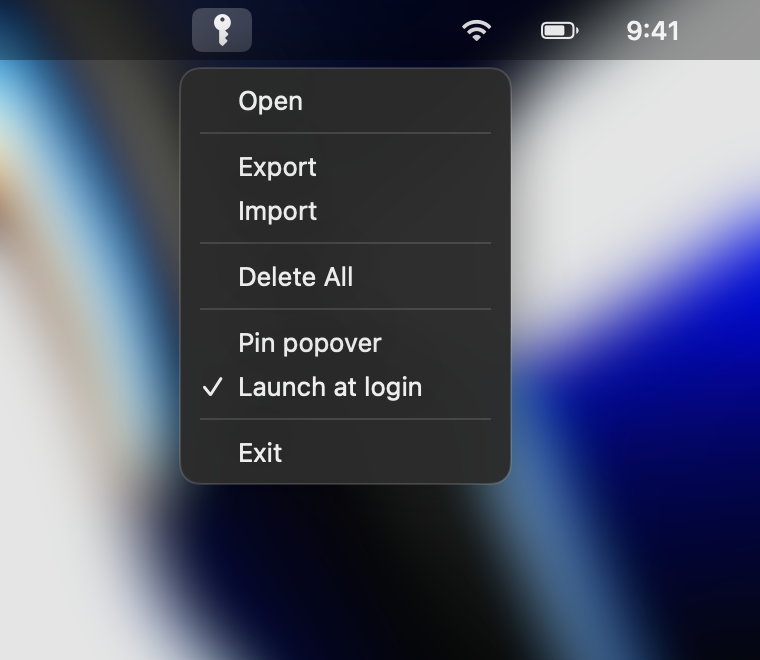
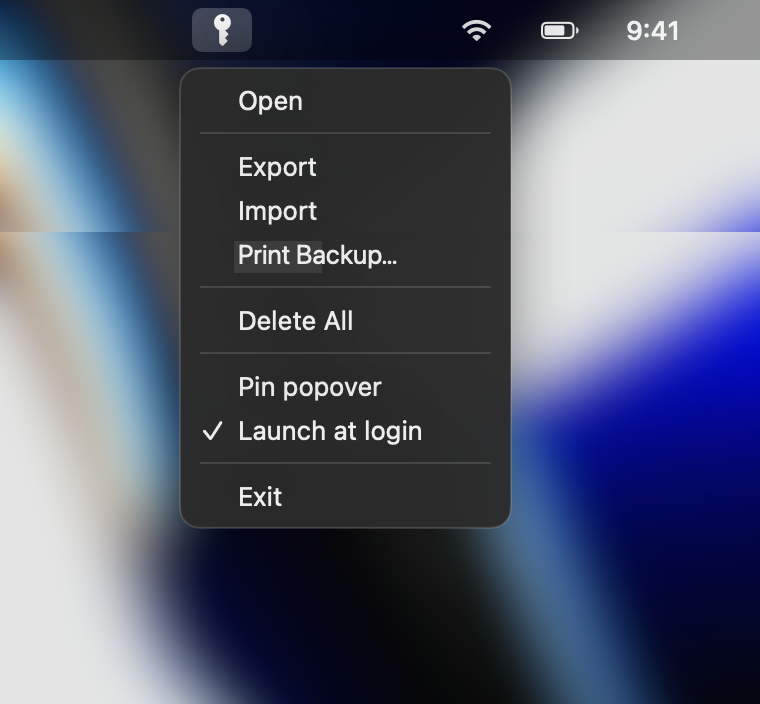
GlassOTP 2.0.2: print entitlement, CSV BOM, paper backup polish, updated screenshots

diff --git a/App/StatusBarController.swift b/App/StatusBarController.swift
@@ -61,7 +61,7 @@ final class StatusBarController: NSObject {
 
         NotificationCenter.default.addObserver(
             self,
-            selector: #selector(exportTokens),
+            selector: #selector(handleBackupRequested),
             name: .backupRequested,
             object: nil
         )
@@ -358,8 +358,8 @@ final class StatusBarController: NSObject {
         menu.addItem(.separator())
 
         menu.addItem(item("Export", #selector(exportTokens)))
-        menu.addItem(item("Print Backup…", #selector(printBackup)))
         menu.addItem(item("Import", #selector(importTokens)))
+        menu.addItem(item("Print Backup…", #selector(printBackup)))
 
         menu.addItem(.separator())
 
@@ -437,6 +437,11 @@ final class StatusBarController: NSObject {
             title: "All tokens deleted",
             body: "\(count) tokens removed"
         )
+    }
+
+    @objc private func handleBackupRequested() {
+        if popover.isShown { closePopover(sender: nil) }
+        exportTokens()
     }
 
     @objc private func exportTokens() {

diff --git a/Services/Importers/PasswordManagerImport.swift b/Services/Importers/PasswordManagerImport.swift
@@ -81,7 +81,9 @@ enum PasswordManagerImport {
     }
 
     private static func column(_ names: [String], in header: [String]) -> Int? {
-        let normalized = header.map { $0.trimmingCharacters(in: .whitespacesAndNewlines).lowercased() }
+        let normalized = header.map {
+            $0.replacingOccurrences(of: "\u{FEFF}", with: "").trimmingCharacters(in: .whitespacesAndNewlines).lowercased()
+        }
         for name in names {
             if let index = normalized.firstIndex(of: name) { return index }
         }

diff --git a/Services/PaperBackup.swift b/Services/PaperBackup.swift
@@ -155,7 +155,7 @@ enum PaperBackup {
     private static func details(_ token: OTPToken) -> String {
         switch token.kind {
         case .steam:
-            return "Steam Guard"
+            return "Steam Guard · scan the QR code with GlassOTP"
         case .hotp:
             return "HOTP · \(token.algorithm.rawValue) · \(token.digits) digits · counter \(token.counter) when printed"
         case .totp:

diff --git a/README.md b/README.md
@@ -382,6 +382,10 @@ Right-click the key icon → **Print Backup…** and authenticate. Every account
 - The print dialog shows a preview and can also save a PDF. That file is as sensitive as the paper — don't leave it on your Mac.
 - HOTP cards show the counter at the time of printing.
 
+<p align="center">
+  <img src="screenshots/paper-backup.png" width="560" alt="Paper backup page">
+</p>
+
 ### Backup reminder
 
 When accounts were added since the last export or paper backup, the list shows a short line with a **Back Up…** button. Click **×** to hide it until you add another account.
